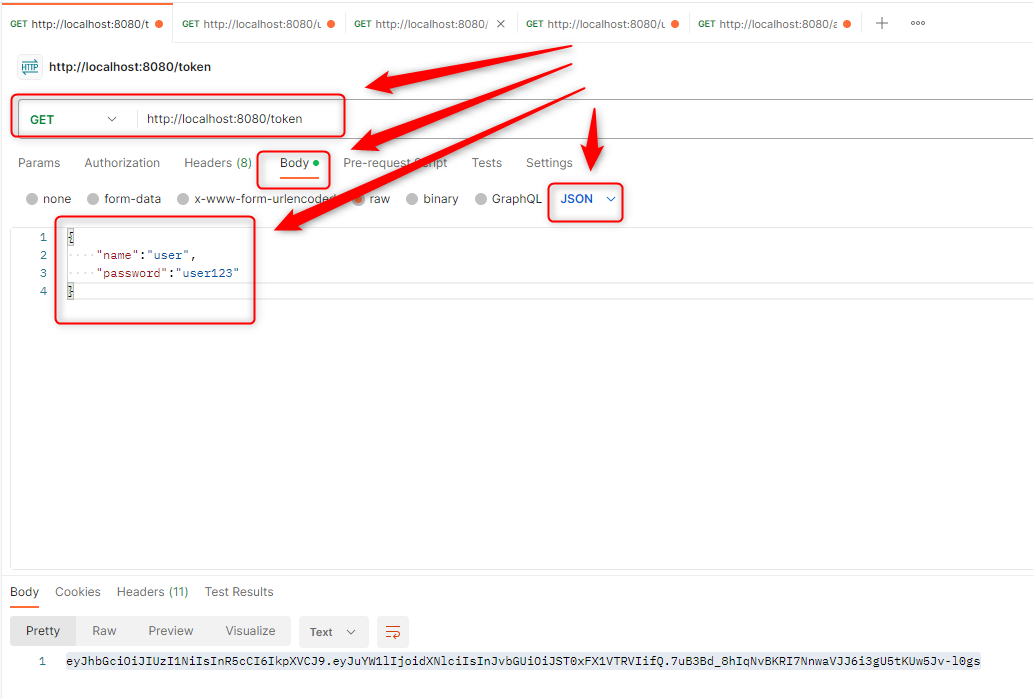
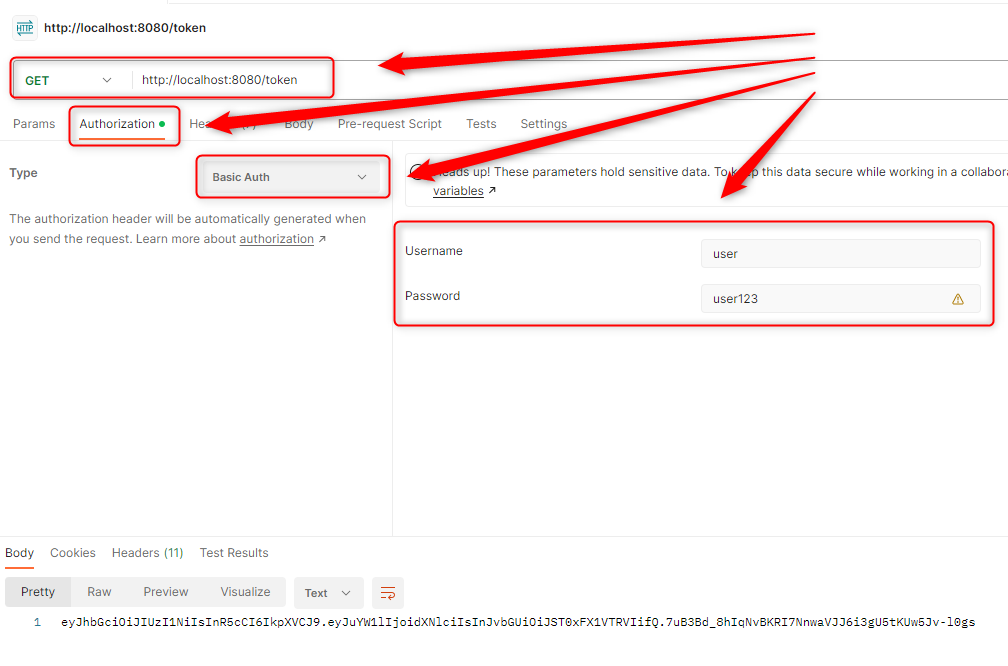
Update Readme file

Changed region(s): [[0.0, 0.0, 1.0, 0.5105], [0.0, 0.8108, 0.9534, 0.961], [0.7073, 0.4204, 0.7381, 0.4505]]

diff --git a/others/security/api/java-springboot-security-api-withoauth2-basic-oauth2/src/main/java/com/example/filters/BasicFilter.java b/others/security/api/java-springboot-security-api-withoauth2-basic-oauth2/src/main/java/com/example/filters/BasicFilter.java
@@ -40,10 +40,7 @@ public class BasicFilter extends OncePerRequestFilter {
 			throws ServletException, IOException {
 		
 		String authorizationHeader = request.getHeader("authorization");
-        StringBuffer requestURL = request.getRequestURL();
-        String path = requestURL.substring(requestURL.lastIndexOf("/"), requestURL.length());
-
-		if (authorizationHeader == null || !authorizationHeader.toLowerCase().startsWith("basic") || !"/token".equals(path)) {
+		if (authorizationHeader == null || !authorizationHeader.toLowerCase().startsWith("basic")) {
             filterChain.doFilter(request, response);
             return;
         }
@@ -61,11 +58,11 @@ public class BasicFilter extends OncePerRequestFilter {
         }
 
         if (userName.equals(userJson.getName()) && userPassword.equals(userJson.getPassword())) {
-            return new UsernamePasswordAuthenticationToken(null, null, Collections.singleton(new SimpleGrantedAuthority("ROLE_USER")));
+            return new UsernamePasswordAuthenticationToken(null, null, Collections.singleton(new SimpleGrantedAuthority("ROLE_USER_TOKEN")));
         }
 
         if (adminName.equals(userJson.getName()) && adminPassword.equals(userJson.getPassword())) {
-            return new UsernamePasswordAuthenticationToken(null, null, Collections.singleton(new SimpleGrantedAuthority("ROLE_ADMIN")));
+            return new UsernamePasswordAuthenticationToken(null, null, Collections.singleton(new SimpleGrantedAuthority("ROLE_ADMIN_TOKEN")));
         }
 
         return null;

diff --git a/others/security/api/java-springboot-security-api-withoauth2-basic-oauth2/src/main/java/com/example/filters/OAuth2Filter.java b/others/security/api/java-springboot-security-api-withoauth2-basic-oauth2/src/main/java/com/example/filters/OAuth2Filter.java
@@ -33,10 +33,7 @@ public class OAuth2Filter extends OncePerRequestFilter {
 			throws ServletException, IOException {
 		
 		String authorizationHeader = request.getHeader("authorization");
-		StringBuffer requestURL = request.getRequestURL();
-		String path = requestURL.substring(requestURL.lastIndexOf("/"), requestURL.length());
-
-		if (authorizationHeader == null|| !authorizationHeader.toLowerCase().startsWith("bearer") || "/token".equals(path)) {
+		if (authorizationHeader == null|| !authorizationHeader.toLowerCase().startsWith("bearer")) {
             filterChain.doFilter(request, response);
             return;
         }

diff --git a/others/security/api/java-springboot-security-api-withoauth2-basic-oauth2/src/main/java/com/example/configs/SecurityConfig.java b/others/security/api/java-springboot-security-api-withoauth2-basic-oauth2/src/main/java/com/example/configs/SecurityConfig.java
@@ -31,7 +31,7 @@ public class SecurityConfig {
             http
                 .authorizeHttpRequests((requests) -> requests
                     .requestMatchers("/").permitAll()
-                    .requestMatchers("/token").hasAnyRole("USER", "ADMIN")
+                    .requestMatchers("/token").hasAnyRole("USER_TOKEN", "ADMIN_TOKEN")
                     .requestMatchers("/user").hasAnyRole("USER", "ADMIN")
                     .requestMatchers("/admin").hasAnyRole("ADMIN") 
                     .anyRequest().permitAll()              

diff --git a/others/security/api/java-springboot-security-api-withoauth2-basic-oauth2/README.md b/others/security/api/java-springboot-security-api-withoauth2-basic-oauth2/README.md
@@ -4,9 +4,9 @@ USAGE
 Usage steps:
 1. Start application with `mvn spring-boot:run`
 1. Send GET request with Postman to URL `http://localhost:8080/`
-1. Get **User Token** with GET request in Postman (**Body** type **JSON** as **{"name":"user","password":"user123"}** to URL `http://localhost:8080/token`
+1. Get **User Token** with GET request in Postman (**Authorisation** type **Basic Auth** with credentials **user/user123**) to URL `http://localhost:8080/token`
 1. Send GET request with Postman (**Authorization** type **Token Bearer** and value **User Token**) to URL `http://localhost:8080/user`
-1. Get **Admin Token** with GET request in Postman (**Body** type **JSON** as **{"name":"admin","password":"admin123"}** to URL `http://localhost:8080/token`
+1. Get **Admin Token** with GET request in Postman (**Authorisation** type **Basic Auth** with credentials **admin/admin123**) to URL `http://localhost:8080/token`
 1. Send GET request with Postman (**Authorization** type **Token Bearer** and value **Admin Token**) to URL `http://localhost:8080/user`
 1. Send GET request with Postman (**Authorization** type **Token Bearer** and value **Admin Token**) to URL `http://localhost:8080/admin`
 1. Clean up environment:
@@ -27,11 +27,11 @@ DESCRIPTION
 -----------
 
 ##### Goal
-The goal of this project is to present how to implement **JSON Authentication** and **OAuth2 Authorization** in **Java** application type **API** with usage **Spring Boot** framework. This application uses **Spring Security** dependencies. Authentication credentials are sent as JSON and proceeded in Filter. **JWT Token** is returned as result of valid authentication. Using this JWT Token user can access secured resource. Authorization is done by Spring Security.
+The goal of this project is to present how to implement **Basic Authentication** and **OAuth2 Authorization** in **Java** application type **API** with usage **Spring Boot** framework. This application uses **Spring Security** dependencies. Authentication credentials are sent in header as "Authorization" type "Basic" and proceeded in Filter. **JWT Token** is returned as result of valid authentication. Using this JWT Token user can access secured resource. Authorization is done by Spring Security.
 
 ##### Flow
 The following flow takes place in this project:
-1. User uses any Client API (for instance Postman) for sending GET request to Server for Token. Username and Password are sent in request body as JSON;
+1. User uses any Client API (for instance Postman) for sending GET request to Server for Token. Username and Password are sent as Authorization Basic;
 1. Server sends back response with Token if credentials are valid; 
 1. User uses any Client API (for instance Postman) for sending GET request to Server for secured resource. JWT Token is sent as Authorization Token Bearer;
 1. Server sends back response with secured resource if JWT Token is valid.
